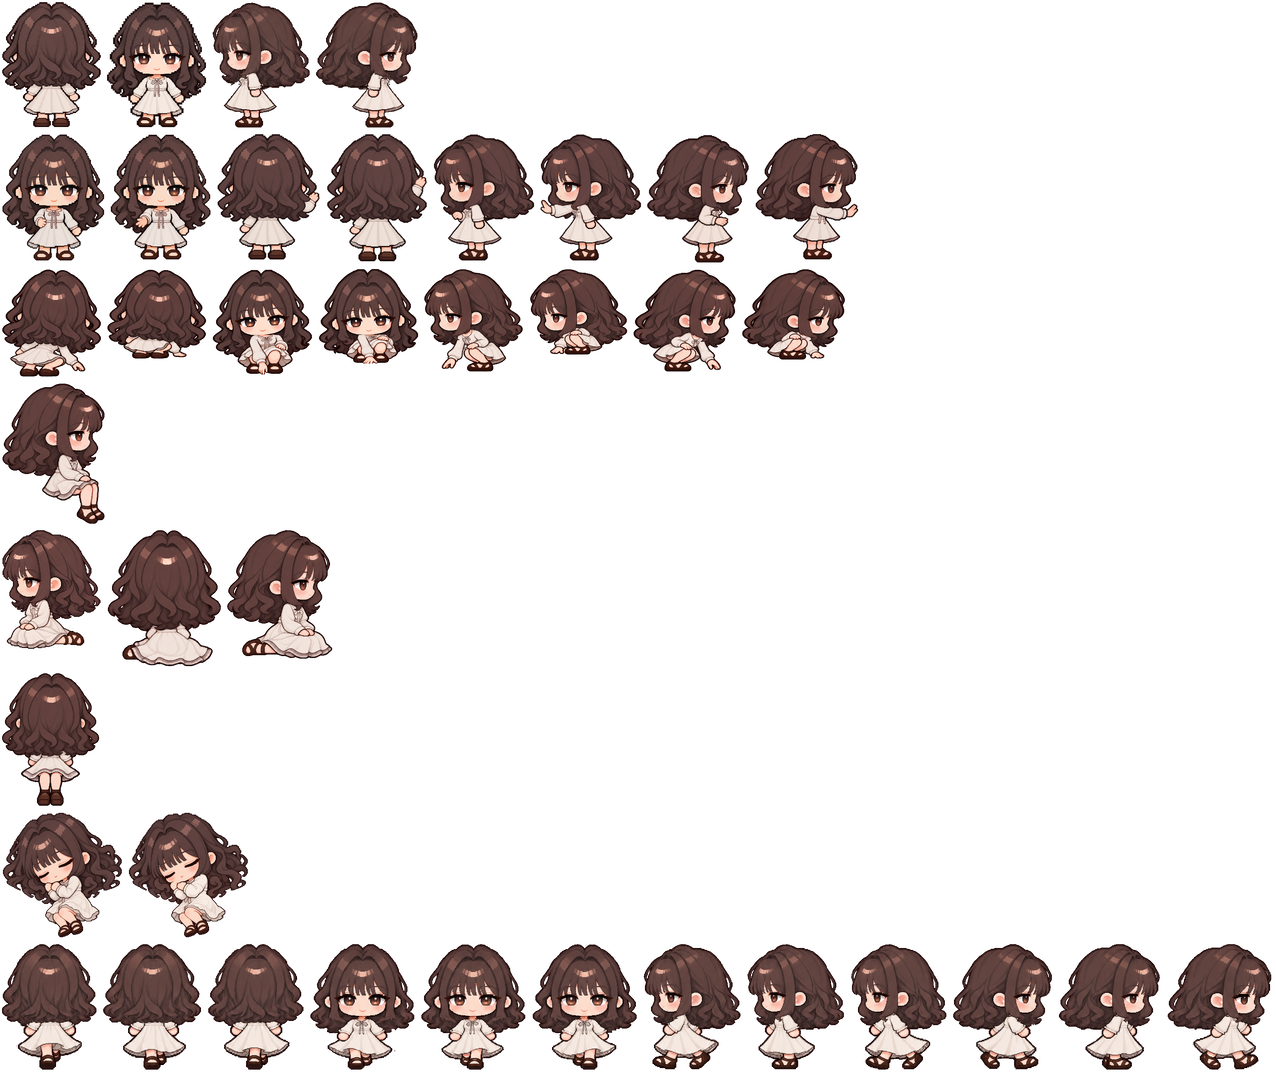
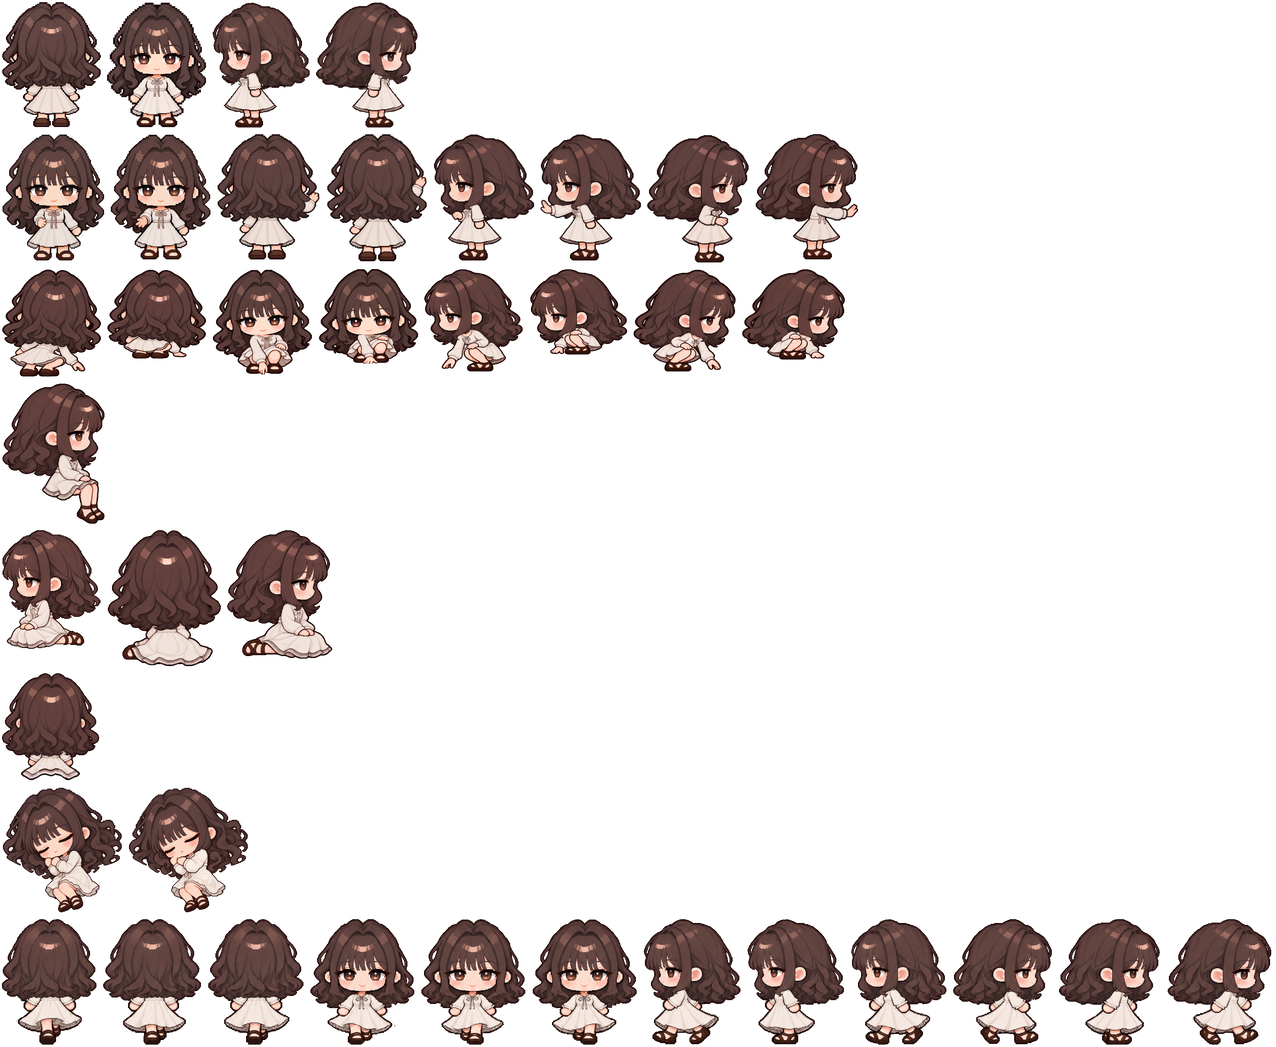
0.9.44 소망 걸상 뒷모습 다리 빼기(주름단 끝선·외곽선 이음), 세트·호루스는 확인 중
Claude-Session: https://claude.ai/code/session_012wVD34xUYduugGp5rrKwnw

Changed region(s): [[0.0, 0.0306, 1.0, 1.0], [0.0917, 0.9475, 0.1528, 1.0]]

diff --git a/src/core/settings.js b/src/core/settings.js
@@ -2,7 +2,7 @@
 
 import { ctx } from './st.js';
 
-export const VERSION = '0.9.43';
+export const VERSION = '0.9.44';
 export const MODULE = 'sand_feather';
 export const PROMPT_KEY = 'sand_feather_world';
 export const UI_THEMES = [

diff --git a/tools/art/fix/skirtcut-somang.py b/tools/art/fix/skirtcut-somang.py
@@ -1,0 +1,51 @@
+# Somang on a stool from behind. Her white lower ruffle runs under the outer skirt as a band about 19-24 px tall
+# (measured where the legs do not cover it); over the legs only its top shows. The new bottom edge is the outer
+# skirt's hem line moved down by that band height, so it follows the skirt's own wave. The hidden lower band is
+# filled from the uncovered band at the leg's side (same distance from the bottom), then the dress outline (7 px).
+import sys, numpy as np
+from PIL import Image
+from collections import deque
+src, out = sys.argv[1], sys.argv[2]
+o=np.asarray(Image.open(src).convert('RGBA')).astype(int); a=o.copy().astype(np.uint8); H,W=o.shape[:2]
+L=o[...,:3].mean(2); sat=o[...,:3].max(2)-o[...,:3].min(2); A=o[...,3]>0
+# the sides, where the ruffle's bottom shows: traced at 8x
+P=[(195,516),(200,519),(207,523),(213,527),(225,528),(232,526),(235,524),(378,525),(380,526),(390,528),(398,527),(402,525),
+   (405,523),(410,521),(415,518),(420,516),(424,514)]
+xs=np.arange(195,425); bot=np.round(np.interp(xs,[p[0] for p in P],[p[1] for p in P])).astype(int)
+# the legs in the original (skin and their outline), flooded from the two thighs
+legok=A&((sat>=48)|(L<100)); legok[:499]=False; legok[:,:240]=False; legok[:,:]&=True
+leg=np.zeros((H,W),bool); q=deque([(530,280),(530,340)]); leg[530,280]=leg[530,340]=True
+while q:
+    y,x=q.popleft()
+    for ny,nx in ((y+1,x),(y-1,x),(y,x+1),(y,x-1)):
+        if 0<=ny<H and 240<=nx<380 and legok[ny,nx] and not leg[ny,nx]: leg[ny,nx]=True; q.append((ny,nx))
+# the middle: outer hem + band height
+def hem(x):
+    y=470
+    while y<540 and not (A[y,x] and L[y,x]<100): y+=1
+    return y
+X0,X1=236,377
+hx=np.array([hem(x) for x in range(X0,X1+1)])
+hx=np.array([int(np.median(hx[max(0,k-4):k+5])) for k in range(len(hx))])     # one smooth hem, no leg-outline hits
+H_=dict(zip(range(X0,X1+1),hx.tolist()))
+refL,refR=238,372
+T=lambda x: np.interp(x,[X0,X1],[19,24])
+def band(rx):
+    h=H_[rx]; nb=int(round(h+T(rx))); return [o[y,rx] for y in range(h+1,nb+1)]
+BL,BR=band(refL),band(refR)
+for i,x in enumerate(xs):
+    if X0<=x<=X1:
+        h=H_[x]; nb=int(round(h+T(x))); B=BL
+        full = 258<=x<=347                        # the legs covered the whole band here
+        for y in range(h+1,nb+1):
+            if full or leg[y,x] or not A[y,x]:
+                a[y,x]=B[min(len(B)-1,int((y-h-1)/(nb-h)*len(B)))]
+        bot[i]=nb
+b=bot.copy()
+ramp=[(38,10,9),(30,6,5),(22,3,2),(16,0,0),(12,0,0),(10,0,0),(10,0,0)]
+for x,y in zip(xs,b):
+    a[y+1:,x,3]=0
+    for k in range(7): a[y+1+k,x,:3]=ramp[k]; a[y+1+k,x,3]=255
+a[548:,180:430,3]=0
+Image.fromarray(a,'RGBA').save(out)
+print('middle bottom', {int(x):int(y) for x,y in zip(xs,b) if X0<=x<=X1 and x%10==0})

diff --git a/tools/art/fix/hemline-horus.py b/tools/art/fix/hemline-horus.py
@@ -1,0 +1,23 @@
+# Horus on a stool from behind, after legcut: the kilt hem gets one even 5 px outline (the sides' own thickness)
+# right under the white kilt, column by column; the thin leg-outline remains along it go.
+import sys, numpy as np
+from PIL import Image
+src,out=sys.argv[1],sys.argv[2]
+a=np.asarray(Image.open(src).convert('RGBA')).copy(); A=a[...,3]>0; L=a[...,:3].astype(int).mean(2)
+X0,X1=226,378
+cb=[]
+for x in range(X0,X1+1):
+    y=600
+    while y>540 and not (A[y,x] and L[y,x]>=150): y-=1
+    cb.append(y)
+cb=np.array(cb); med=np.array([int(np.median(cb[max(0,i-3):i+4])) for i in range(len(cb))])
+cbs=np.where(np.abs(cb-med)>3,med,cb)                  # only stray columns are evened out
+dk=np.array([2,2,3],np.uint8)
+for i,x in enumerate(range(X0,X1+1)):
+    b=cbs[i]
+    for y in range(b+1,b+6): a[y,x,:3]=dk; a[y,x,3]=255
+    a[b+6:,x,3]=0
+    for y in range(b-3,b+1):
+        r,g,bb=a[y,x,:3].astype(int)
+        if r-g>25 and L[y,x]<150: a[y,x,:3]=dk
+Image.fromarray(a,'RGBA').save(out)

diff --git a/docs/OPUS-HANDOFF.md b/docs/OPUS-HANDOFF.md
@@ -1,6 +1,6 @@
 # 오푸스 인수인계 — 게임 적용과 코드 (지금 기준만)
 
-**오푸스용 문서다.** 갱신 2026-10-12, **0.9.43** 기준. 처음 온 오푸스는 이 문서 하나만 처음부터 끝까지 읽으면 바로 일할 수 있게 썼다. 버전별 변경은 `CHANGELOG.md`, 작업별 상세는 아래 표의 기록 문서에 있다. 그림 작업 규칙은 아스트라용 [ASTRA-HANDOFF.md](ASTRA-HANDOFF.md)·[ASTRA-PLAN.md](ASTRA-PLAN.md)에 있다. 아트를 받을 때 채택 상태와 명세를 확인하는 용도로 본다.
+**오푸스용 문서다.** 갱신 2026-10-12, **0.9.44** 기준. 처음 온 오푸스는 이 문서 하나만 처음부터 끝까지 읽으면 바로 일할 수 있게 썼다. 버전별 변경은 `CHANGELOG.md`, 작업별 상세는 아래 표의 기록 문서에 있다. 그림 작업 규칙은 아스트라용 [ASTRA-HANDOFF.md](ASTRA-HANDOFF.md)·[ASTRA-PLAN.md](ASTRA-PLAN.md)에 있다. 아트를 받을 때 채택 상태와 명세를 확인하는 용도로 본다.
 
 ## 이 게임
 
@@ -50,7 +50,7 @@ SillyTavern 확장 "모래와 깃털"이다. 이집트 옴보스를 배경으로
 
 ## 버전과 검증
 
-- 버전은 `manifest.json`의 `version`과 `src/core/settings.js`의 `VERSION`을 같이 올린다. 지금은 **0.9.43**이다. 올릴 때 `CHANGELOG.md` 맨 위에 한 줄, README의 "현재 버전" 줄, 이 문서의 이 줄과 맨 위 기준 버전도 고친다. README에는 버전 내역을 쌓지 않는다.
+- 버전은 `manifest.json`의 `version`과 `src/core/settings.js`의 `VERSION`을 같이 올린다. 지금은 **0.9.44**이다. 올릴 때 `CHANGELOG.md` 맨 위에 한 줄, README의 "현재 버전" 줄, 이 문서의 이 줄과 맨 위 기준 버전도 고친다. README에는 버전 내역을 쌓지 않는다.
 - **검증 스크립트 세 개**(`tools/art/`, ST가 떠 있고 확장이 들어가 있어야 함). 출력 폴더를 인자로 준다. 셋 다 exit 0이어야 한다:
   ```sh
   export NODE_PATH=/opt/node-tools/node_modules
@@ -73,7 +73,7 @@ SillyTavern 확장 "모래와 깃털"이다. 이집트 옴보스를 배경으로
   - `bed-measure.js <폴더> '<[누구,[x,y,방향],이름] 목록>' [방]`: 한 사람만 침대 자리에 눕힌 화면과 뺀 화면. 두 장 차이의 박스가 그 사람(머리 위끝·턱 높이 재기)
   - 폰 크기는 412×900. 안채나 맵을 고치면 출구 걷기·낮밤도 본다.
 
-## 게임 지금 상태 — 0.9.43
+## 게임 지금 상태 — 0.9.44
 
 | 영역 | 내용 | 자세한 기록 |
 |---|---|---|
@@ -84,7 +84,7 @@ SillyTavern 확장 "모래와 깃털"이다. 이집트 옴보스를 배경으로
 | 일행 탭 UI | `src/ui/tabs.js partyCard`: 줄마다 `자세히`(`data-detail`)와 `앞장`(`data-lead`), 아래에 동행 고르기(`data-companion`). 하단 탭은 세계·일행·임무·지도 넷 | |
 | 자세히 카드 | `tabs.js characterCard(ui, id)`: 그림, 모험 등급, 능력치, 배움(앞장일 때만 고름). 그림은 `portraits.js picture(id)` → `data/art/portraits/gallery/` 일러스트(`GALLERY = {somang:1, set:3, horus:3}`, 한 장이면 ‹ › 숨김). 소망 일러스트는 원본 704×1216을 위쪽 2:3으로 잘라 512×768 WebP. 원본은 `docs/art/portraits-illust/gallery/`. 대화 카드 상반신과 미소 버튼은 뺐다(다시 넣지 않는다) | CHANGELOG 0.9.29·0.9.30 |
 | 셋소호 스프라이트 | 최종 48장(`docs/art/chibi-refresh/final/`: 정지 12장 620×720 발 기준점(310,662) 기준 키 576, 걷기 36장 360×400 기준점(180,370) 기준 키 330)과 채택 동작을 `tools/art/pack-trio-motion.py`로 패킹한다. `final/manifest.json`의 `runtimeEligible`이 true여야 한다. 결과는 캐릭터마다 한 장: `data/art/characters/trio-motion-<누구>.png`(256px, 0.9.34 기준 가장 큰 세트 2866×1297)·`-small.png`(폰 125px), 연결은 `data/sprites.json`의 `looks.<who>.motion`(`file`, `small.file`). 표시 높이 31.2 논리 px(폰에서 얼굴이 손톱만 함), 걷기 0-1-2-1 180ms. **아틀라스가 4096px을 넘으면 폰에서 안 그려질 수 있다.** 그래서 0.9.33에 캐릭터별로 나눴다. 동작이 더 늘어 한 캐릭터 것이 4096에 가까워지면 동작을 그 캐릭터의 두 번째 아틀라스로 나눈다(렌더러는 `motion.file`/`small.file` 하나만 읽으므로 그때 프레임마다 파일을 가리키게 바꿔야 한다) | [TRIO-MOTION-098.md](TRIO-MOTION-098.md) |
-| 동작 | `motion.acts[동작][방향][프레임]` + `actPlay[동작] = {frameMs, loop, hold}`. 그리는 쪽 `render.js motionPerson`의 `anim.act`: 보통은 한 번 재생 후 마지막 장 220ms 머물고 정지, `hold`(앉기)는 마지막 장 유지, `loop`(잠들기)는 반복. hold·loop일 땐 발 그림자를 안 그린다. 프레임의 기준점은 manifest `anchor`(발 / 앉은 자리 / 몸 가운데)가 그대로 pivot이 된다. **말 걸기**(`interact`): 셋 다 4방향(소망 172, 세트 174·175, 호루스 176·177). **줍기**(`pickup`): 셋 다 4방향(소망 181, 호루스 182, 세트 185; 세트·호루스는 `pickup-trio-v182` 한 폴더). 땅의 것(모험 touch·find, 벽화 아닌 비밀)은 thing에 `pose: 'pickup'`, 그 캐릭터에게 그림이 없으면 손 뻗기(`window.js talk`, 카드가 열리기까지 `ACT_MS` = interact 260 / pickup 380ms). **앉기**: 셋 다(소망 방석 왼쪽 179 + `sit-trio-v190` 14장, 호루스 5장은 0.9.43에 머리 ×1.12·몸 ×1.10). 한 묶음 안의 자리별 그림은 패커가 파일의 `seatType`으로 동작 이름을 나눈다: `sit-floor`(방석 왼·오·위), `sit-stool`(걸상, 위), `sit-bench`(긴 의자, 오른쪽). 기준점은 파일마다 manifest의 엉덩이 아래(seat-bottom). **잠들기**(`sleep`): 셋 다 2프레임 숨쉬기 800ms loop(`sleep-trio-v220`), 바로 눕기 `down`, 세트·호루스 옆잠 `right` | 아래 "동작 넣는 법" |
+| 동작 | `motion.acts[동작][방향][프레임]` + `actPlay[동작] = {frameMs, loop, hold}`. 그리는 쪽 `render.js motionPerson`의 `anim.act`: 보통은 한 번 재생 후 마지막 장 220ms 머물고 정지, `hold`(앉기)는 마지막 장 유지, `loop`(잠들기)는 반복. hold·loop일 땐 발 그림자를 안 그린다. 프레임의 기준점은 manifest `anchor`(발 / 앉은 자리 / 몸 가운데)가 그대로 pivot이 된다. **말 걸기**(`interact`): 셋 다 4방향(소망 172, 세트 174·175, 호루스 176·177). **줍기**(`pickup`): 셋 다 4방향(소망 181, 호루스 182, 세트 185; 세트·호루스는 `pickup-trio-v182` 한 폴더). 땅의 것(모험 touch·find, 벽화 아닌 비밀)은 thing에 `pose: 'pickup'`, 그 캐릭터에게 그림이 없으면 손 뻗기(`window.js talk`, 카드가 열리기까지 `ACT_MS` = interact 260 / pickup 380ms). **앉기**: 셋 다(소망 방석 왼쪽 179 + `sit-trio-v190` 14장, 호루스 5장은 0.9.43에 머리 ×1.12·몸 ×1.10, 소망 걸상 뒷모습은 0.9.44에 다리를 뺌, 세트·호루스 것은 확인 중). 한 묶음 안의 자리별 그림은 패커가 파일의 `seatType`으로 동작 이름을 나눈다: `sit-floor`(방석 왼·오·위), `sit-stool`(걸상, 위), `sit-bench`(긴 의자, 오른쪽). 기준점은 파일마다 manifest의 엉덩이 아래(seat-bottom). **잠들기**(`sleep`): 셋 다 2프레임 숨쉬기 800ms loop(`sleep-trio-v220`), 바로 눕기 `down`, 세트·호루스 옆잠 `right` | 아래 "동작 넣는 법" |
 | 게임 하루·쉬기 | `src/core/rest.js`, `src/packs/life/rest.js`. 게임 하루 = `ledger.today(s)` = 챗 날짜와 `s.ledger.gday` 중 늦은 쪽(태양 기운·매일 의뢰·결산·텃밭·하루 한 번 행동이 전부 이걸 씀). 침대(`set_bed`)에서 `sleepNow`: 태양 기운이 절반 이하일 때만, `gday = today+1` → `newDays` → `day:started`(태양 기운·의뢰·결산이 기존 흐름대로). 챗이 그 날짜에 오면 새 날이 아니라 두 번 안 센다. 자고 나면 `s.wake = {part:'dawn', raw}`로 화면 시간대만 아침(`partNow(s)`, 챗 트래커 raw가 바뀌면 해제). 게임 판정(비밀, 두아트 문, 선착장, 축제, HUD, 그림)은 `partNow`, **챗 주입·모험 생성·서랍은 `s.part` 그대로.** 화면 위 날짜도 챗 날짜 그대로다. 앉아 쉬기(`temple_table`, `colonnade_seat`)는 태양 기운 +1, 게임 하루 2번(`ledger.acts rest:sit:1/2`), 가득 차 있으면 횟수를 안 씀. 자리 좌표는 `packs/life/rest.js SEATS/BEDS`: 자세 기준점이 놓이는 칸 좌표·방향·동작 이름. 앉을 곳(0.9.41): 식사 공간 `temple_table`(식탁 오른쪽 끝 장소, 오른쪽 방석)·`temple_table_mid`(앞 가운데 방석, 뒷모습. 0.9.42), 세트 방 `set_table`(낮은 탁자 왼쪽 8.4·오른쪽 12.3 방석, 선 자리에 가까운 쪽), `set_desk`·`horus_desk`·`somang_mirror`(걸상 뒷모습), `somang_chair`(소망 방 긴 의자, 오른쪽 보기). `colonnade_seat`(열주 계단 긴 의자)는 정면으로 앉는 그림이 없어 아직 비어 있다. 앉거나 누워 있는 동안 머리 위 "살펴보기" 표시는 숨긴다(`window.js draw`). 그 캐릭터·방향 그림이 있을 때만 앉은·누운 그림(`player.holdPose`, 원래 자리는 `player.seat`에 보관, 저장 위치도 원래 자리), 없으면 선 채로 효과만. 움직이거나 말 걸기를 누르면 원래 자리에서 일어남(`getUp`). 침대 이불로 몸을 가리는 occluder는 아직 없다(누운 그림이 이불 위에 보임). 0.9.34부터 셋 다 잠들기 2프레임(숨쉬기, `sleep-trio-v220`): 바로 눕기 `sleep.down`, 세트·호루스 옆으로 눕기 `sleep.right`(패킹만, 같이 자기용, 아직 안 씀). 자리는 `BEDS.set_bed`에 사람별: 소망 오른쪽 베개(x 17.55, y 3.98; 0.9.35 머리 112 %·몸 85 %로 바꾼 뒤), 세트·호루스 왼쪽(15.7), `side`(옆으로, 왼쪽 베개, 오른쪽을 봄). `bedPlace(id, who, side)`. 같이 자기: `bedPair(id, lead, mate)` → 오른쪽 베개는 소망(없으면 호루스, `BEDS.right`), 왼쪽은 옆잠(`side`). 동행 자세는 `player.mate`(`holdMate`, `getUp`·`placePlayer`가 지움), `window.js draw()`가 동행을 따라오는 대신 그 자리에 눕혀 그린다. 0.9.40부터 호루스 방 침대(`horus_bed`, 스팟 6.2,7.2)도 같다: 같은 침대 그림이 91 % 크기라(머리판·베개로 맞춤, 상관 0.95) 세트 침대 자리를 그대로 옮겼다(머리는 기준점 0.75칸 위로 두고 베개에 맞춤, 소망만 x 5.32로 세트 머리와 안 겹치게) | CHANGELOG 0.9.32 |
 | 카드(팝업) | `src/ui/popups.js`의 `showCard`. 테두리와 제목은 고정, 안쪽 `.sf_pop_scroll`만 스크롤 | CHANGELOG 0.9.22 |
 | 성능 | 지도는 보이는 부분만 그린다. 이동은 실제 시간 기준 0.05초 단위. 지도 그림은 그 지도에 있을 때만 풀어 둔다(`lazy`). 잠든 동안만 걷기 fps로 그린다(호흡) | [PERF-0917.md](PERF-0917.md) |
@@ -117,6 +117,7 @@ SillyTavern 확장 "모래와 깃털"이다. 이집트 옴보스를 배경으로
 |---|---|---|
 | `headbody.py in out h b nx ny R` | 목(nx,ny) 위는 h배, 아래 R행에 걸쳐 b배(머리 키우고 몸 줄이기) | 소망 잠 1.12 / 0.85 (목 255,355, 70행) |
 | `bodyscale.py in out b nx ny R ax ay [h]` | 목 위 머리 h배(기본 1, 1이면 픽셀 그대로 옮김), 목 아래 몸 b배, 그다음 기준점(앉은 자리·발)이 제자리에 오게 전체를 옮김 | 호루스 앉기 5장 몸 1.10·머리 1.12 (0.9.43, 사용자 "분홍 동그라미": 뒷모습 머리통이 세트·소망보다 작았음) |
+| `legcut.py`, `skirtcut-somang.py` | 걸상 뒷모습에서 다리·신발 빼기. legcut: 다리 있는 열만, 치마 끝선(어두운 선 최대 5 px 남김) 아래를 지움. skirtcut-somang: 소망 드레스는 아래 주름단을 바깥 치마 끝선과 나란히(양옆에서 잰 폭 19~24 px) 다시 맺고, 다리가 가렸던 주름단은 다리 옆 주름단 명암으로 채운 뒤 7 px 외곽선 | 0.9.44. **사용자에게 배운 것:** 지운 픽셀을 원본 위에 빨갛게 겹쳐 보고 보낸다. 자른 자리는 반드시 원래 외곽선 굵기·색으로 닫는다. 새 끝선은 원래 옷 라인(위 끝선과 나란함)을 따라야 한다. 다리가 가리던 옷 부분은 비워 두지 말고 옷으로 잇는다 |
 | `headshrink.py in out s nx ny R` | 목 위 머리만 s배, R행에 걸쳐 1로 | 세트 옆잠 0.93 (목 338,370) |
 | `faceslim.py in out cx top eye chin neck mid low L` | 얼굴 폭을 눈높이 mid·턱 low배로(top부터 neck까지 서서히), 턱을 L px 길게(눈 위가 L만큼 올라감) | 호루스 정면 잠: 308 230 340 395 425 0.98 0.95 3 |
 | `earwarp.py in out L\|R s sv E F ay hy 얼굴선점…` | 귀를 얼굴선 쪽으로 폭 s·높이 sv로 누르고, 비는 곳은 옆머리·배경이 늘어나 채운다(구멍 없음). 얼굴선 안쪽은 안 움직임 | 호루스 귀 0.90 / 0.94. **귀를 지우고 작게 붙이는 방식은 잔선·구멍·끊긴 턱선이 남아 버렸다** |

diff --git a/CHANGELOG.md b/CHANGELOG.md
@@ -2,6 +2,8 @@
 
 README에서 옮긴 버전별 변경 내역이다. 위가 최신이다. 지금 상태는 [README](README.md)와 [오푸스 인수인계](docs/OPUS-HANDOFF.md)를 본다.
 
+**0.9.44:** 소망 걸상 뒷모습에서 다리를 뺐다(뒤에서 보면 다리는 앞으로 내려가 안 보임). 아래 주름단을 바깥 치마 끝선과 나란히 다시 맺고 드레스 외곽선을 이었다. 세트·호루스 걸상 뒷모습은 확인 중.
+
 **0.9.43:** 호루스 앉기 5장(방석 뒤·왼·오, 걸상 뒤, 긴 의자)의 머리를 ×1.12, 몸을 ×1.10으로 키웠다(사용자 d안, `tools/art/fix/bodyscale.py`, 앉은 자리 기준점 그대로). 세트·소망보다 머리와 몸이 작아 보였다.
 
 **0.9.42:** 식사 공간 식탁 앞 가운데 방석에 장소(`temple_table_mid`)를 따로 둬서 셋 다 뒷모습으로 앉는다(식탁 장소는 오른쪽 끝 하나라 가운데 방석이 쓰이지 않았다).

diff --git a/README.md b/README.md
@@ -20,7 +20,7 @@
 
 세트·호루스 RP 채팅 옆에서 돌아가는 이집트 오픈월드 게임이다. SillyTavern 확장으로 동작한다.
 
-**현재 버전 0.9.43.** 버전별 변경 내역은 [CHANGELOG.md](CHANGELOG.md)에 있다.
+**현재 버전 0.9.44.** 버전별 변경 내역은 [CHANGELOG.md](CHANGELOG.md)에 있다.
 
 ## 작업자는 여기부터
 
